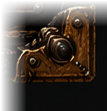
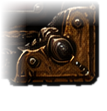
v0.1.8: Kein Fensterrand mehr – gemalte Rahmenform ist die Kante, Inhalt füllt das Fenster
Claude-Session: https://claude.ai/code/session_01U8x9xb4N9r57a1ymDrSWaz

Changed region(s): [[0.028, 0.027, 1.0, 1.0]]

diff --git a/styles/camp.css b/styles/camp.css
@@ -43,12 +43,12 @@
   color: var(--cr-ink);
   font-family: var(--cr-serif);
   font-variant-numeric: lining-nums;
-  background:
-    url("../assets/wood.svg"),
-    linear-gradient(180deg, #24170d 0%, #1a1009 60%, #120b06 100%);
+  /* Kein eigener Fensterrand: die gemalte Rahmenform ist die Fensterkante */
+  background: none;
   border: none;
   border-radius: 0;
-  box-shadow: 0 0 0 1px #000, 0 12px 34px rgba(0, 0, 0, 0.8);
+  box-shadow: none;
+  filter: drop-shadow(0 10px 18px rgba(0, 0, 0, 0.65));
   overflow: hidden;
 }
 
@@ -124,11 +124,18 @@
 
 /* --- Inhalt --- */
 #camp-rest-app .window-content {
+  flex: 1 1 auto;
+  min-height: 0;
   display: flex;
   flex-direction: column;
   gap: 0;
   padding: 0 var(--cr-post) var(--cr-beam);
-  background: none;
+  /* Holzgrund nur zwischen den Pfosten, damit außen nichts übersteht */
+  background:
+    url("../assets/wood.svg") 0 0 / 100% 420px repeat-y,
+    linear-gradient(180deg, #24170d 0%, #1a1009 60%, #120b06 100%);
+  background-clip: content-box;
+  background-origin: content-box;
   color: var(--cr-ink);
   overflow: hidden auto;
 }
@@ -147,8 +154,8 @@
   border-width: 0 var(--cr-post) var(--cr-beam) var(--cr-post);
   border-image: url("../assets/ui/frame.png") 0 45 48 44 / 0 var(--cr-post) var(--cr-beam) var(--cr-post) round;
 }
-#camp-rest-app .cr-curtain.left { left: 0; top: -1.5px; width: 154px; height: 582px; background-image: url("../assets/curtain-left.png"); }
-#camp-rest-app .cr-curtain.right { right: 0; top: -3px; width: 202px; height: 615px; background-image: url("../assets/curtain-right.png"); }
+#camp-rest-app .cr-curtain.left { left: 0; top: -2.2px; width: 160.9px; height: 582.3px; background-image: url("../assets/curtain-left.png"); }
+#camp-rest-app .cr-curtain.right { right: 0; top: -3px; width: 206.6px; height: 620px; background-image: url("../assets/curtain-right.png"); }
 #camp-rest-app .cr-corner.br { right: 0; bottom: 0; width: 79px; height: 82px; background-image: url("../assets/corner-br.png"); }
 #camp-rest-app .cr-banner { left: 42.8px; top: -4.5px; width: 85.6px; height: 168.3px; background-image: url("../assets/banner.png"); }
 #camp-rest-app .cr-lantern { right: 22.9px; top: 32.4px; width: 69.4px; height: 190.4px; background-image: url("../assets/lantern.png"); }
@@ -286,6 +293,8 @@
 
 /* --- Karten --- */
 #camp-rest-app .cr-members {
+  flex: 1 1 auto;                 /* freier Platz geht in den Kartenbereich, nicht unter die Fußzeile */
+  align-content: start;
   display: grid;
   grid-template-columns: repeat(auto-fill, 192px);
   justify-content: start;
